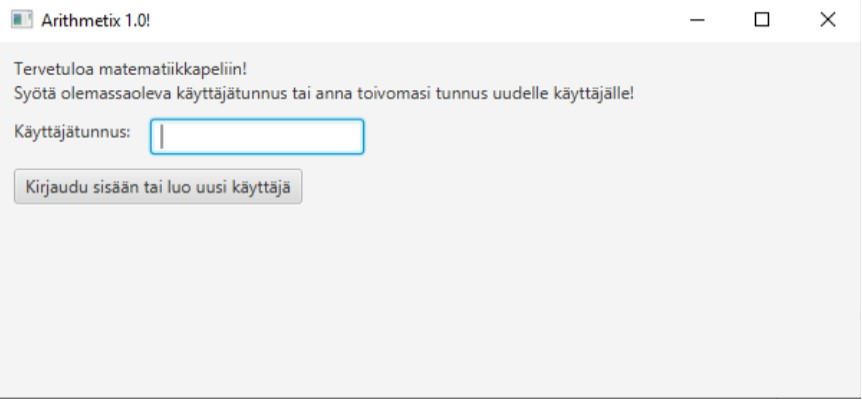
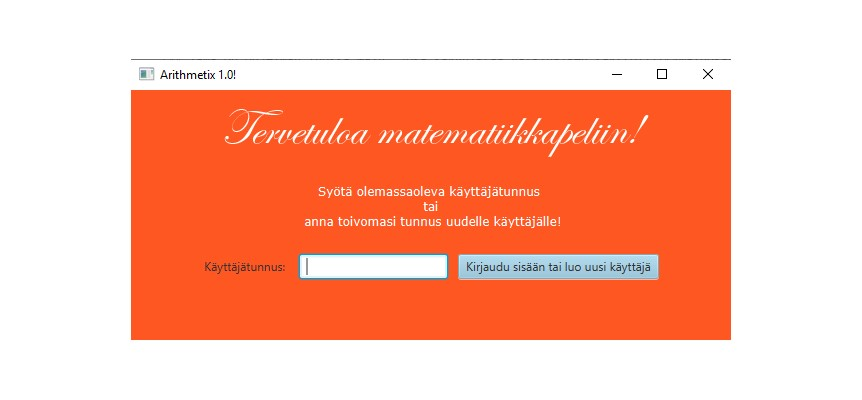
käyttöohjetta

diff --git a/ot-Arithmetix/src/main/java/com/mycompany/ot/arithmetix/Main.java b/ot-Arithmetix/src/main/java/com/mycompany/ot/arithmetix/Main.java
@@ -31,12 +31,12 @@ public class Main {
 
 
         
-//        Ui.main(args);
+        Ui.main(args);
 
-        Scanner reader = new Scanner(System.in);
-        
-        TextUI textUI = new TextUI(reader);
-        textUI.start();
+//        Scanner reader = new Scanner(System.in);
+//        
+//        TextUI textUI = new TextUI(reader);
+//        textUI.start();
     }
     
 }

diff --git a/dokumentointi/kayttoohje.md b/dokumentointi/kayttoohje.md
@@ -2,8 +2,8 @@
 
 ## Konfigurointi
 
-Ohjelma olettaa, että sen käynnistyshakemistossa on konfiguraatiotiedosto config.properties, joka määrittelee käytettävän tietokannan nimen.
-Tiedosto on muotoa:
+Ohjelma olettaa, että sen käynnistyshakemistossa on konfiguraatiotiedostot sekä ohjelman varsinaisia konfiguraatioita varten, että ohjelman testejä varten. Tiedostojen sisältö on rakenteeltaan sama. Varsinaisen sovelluksen konfiguraatiotiedoston nimi on config.properties ja testien konfiguraatiotiedoston nimi on TESTconfig.properties. Konfiguraatiotiedostoissa määritellään käytettävän tietokannan nimi.
+Sovelluksen käyttämä tiedosto on sisällöltään seuraava:
 
     dbFile=testidata.db
     
